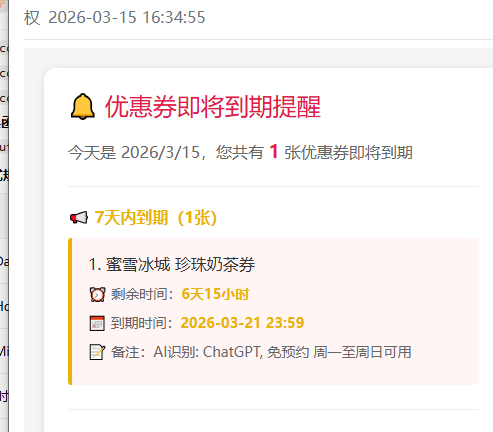
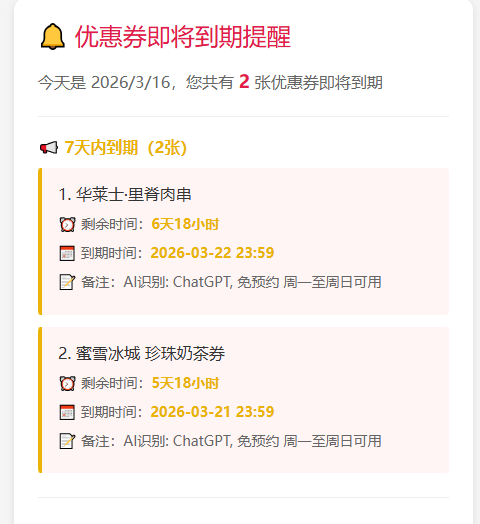
fix: 统一时间计算逻辑并修复即将过期显示阈值
- 推送提醒：移除硬编码 endMinute，使用 coupon.endMinute ?? 59
- 过期检查：简化 getDaysRemaining 函数，直接使用本地时间计算
- 前端组件：移除 extractTimeParts 调用，直接使用 endHour/endMinute
- 页面显示：将即将过期阈值从7天改为3天，与推送提醒保持一致
- 导出功能：简化 getDaysRemaining 函数，统一计算逻辑

diff --git a/src/app/page.tsx b/src/app/page.tsx
@@ -772,10 +772,10 @@ export default function Home() {
     }
   }
 
-  // 判断是否即将到期（7天内）
+  // 判断是否即将到期（3天内，与推送提醒阈值保持一致）
   const isExpiringSoon = (coupon: Coupon) => {
     const days = getDaysRemaining(coupon)
-    return days <= 7 && days >= 0
+    return days <= 3 && days >= 0
   }
 
   // 判断是否已过期
@@ -1480,7 +1480,7 @@ export default function Home() {
                       {getFilteredAndSortedCoupons().filter(
                         (c) => isExpiringSoon(c) && !isExpired(c) && !c.isReminded && !(c as any).isUsed
                       ).length}{" "}
-                      张优惠券将在7天内到期，请尽快使用！
+                      张优惠券将在3天内到期，请尽快使用！
                     </p>
                   </div>
                 </div>
